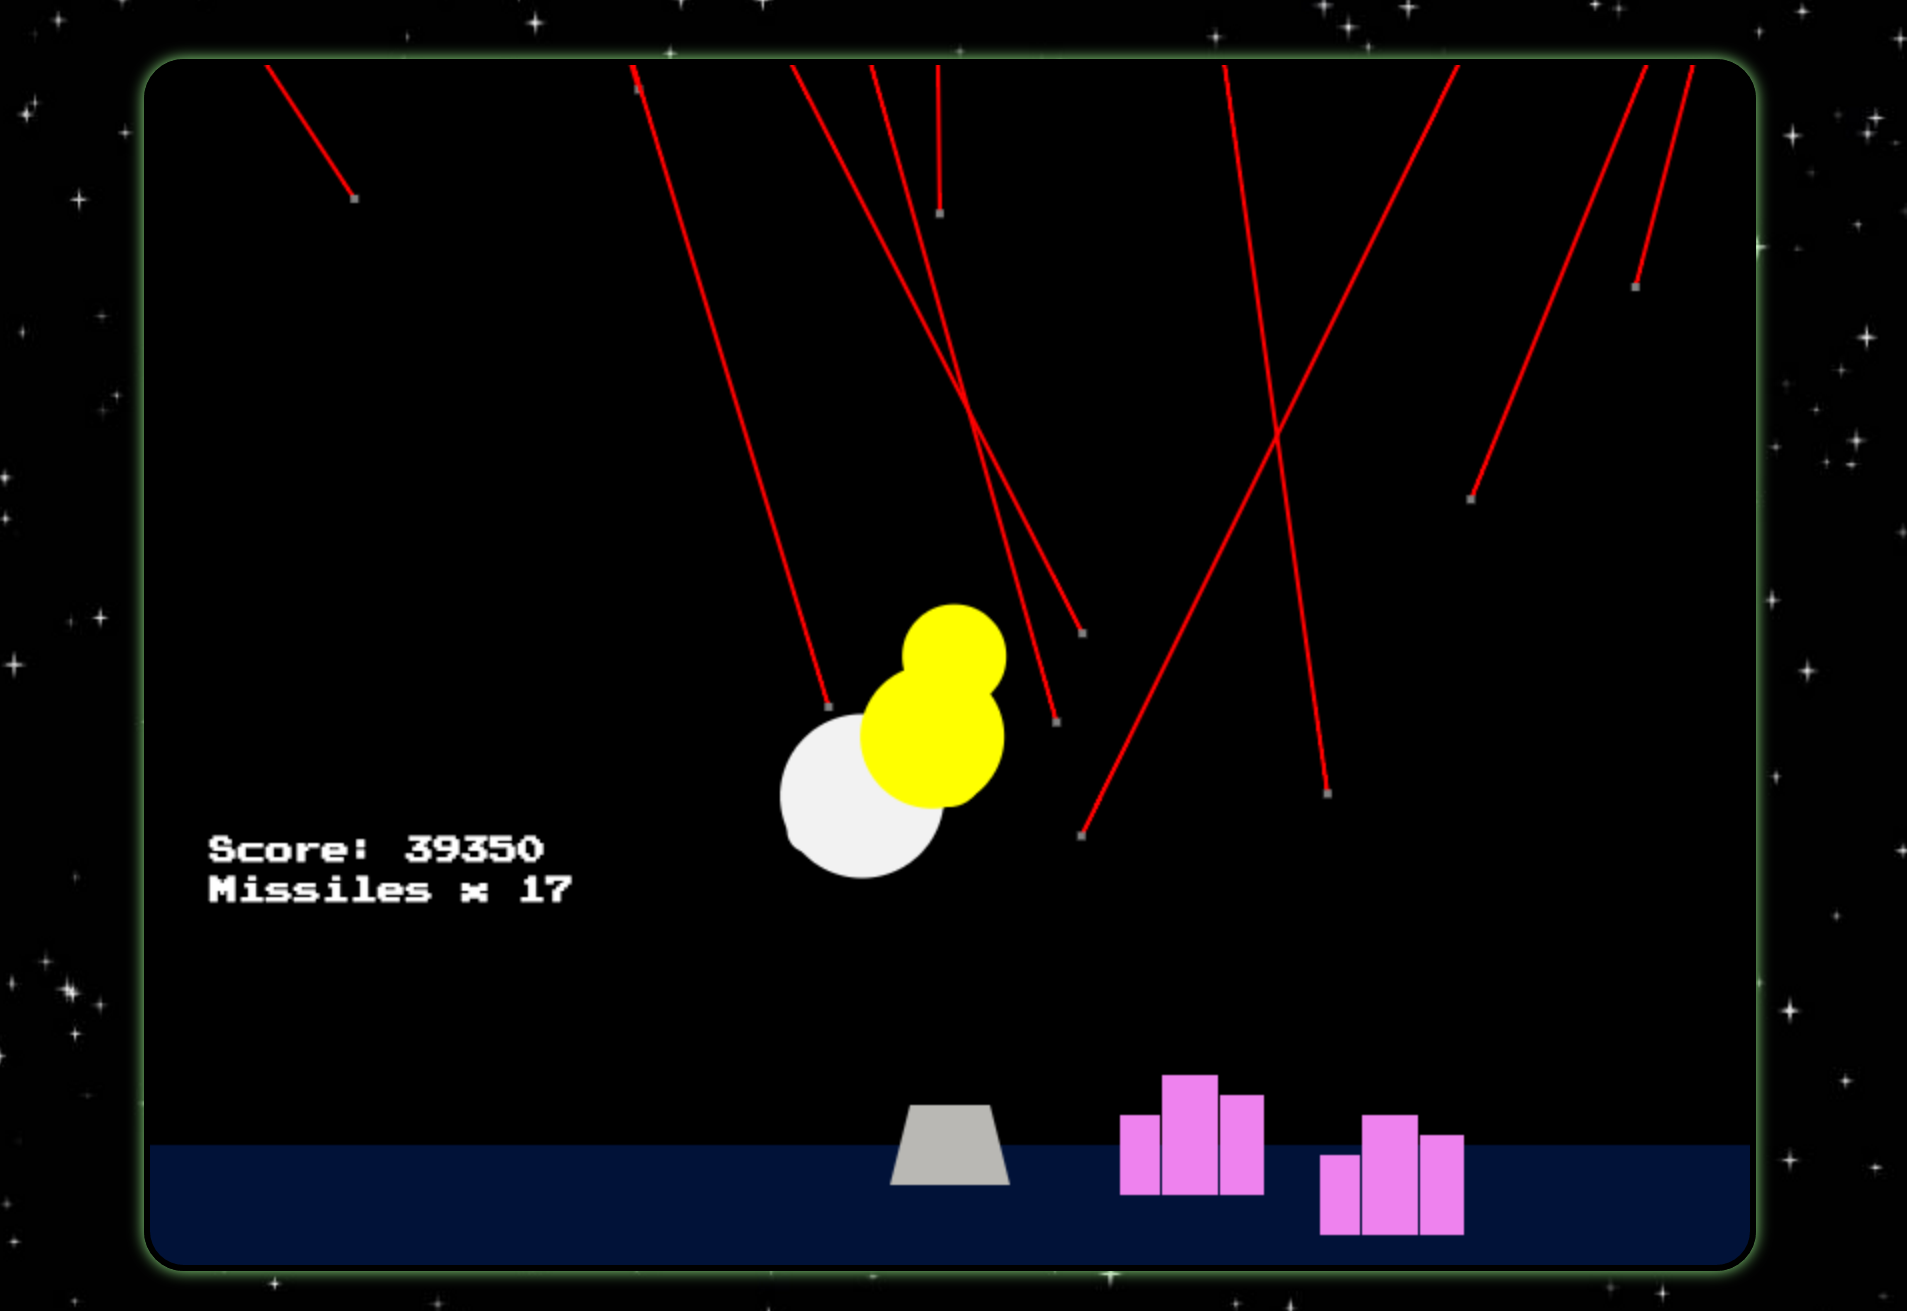
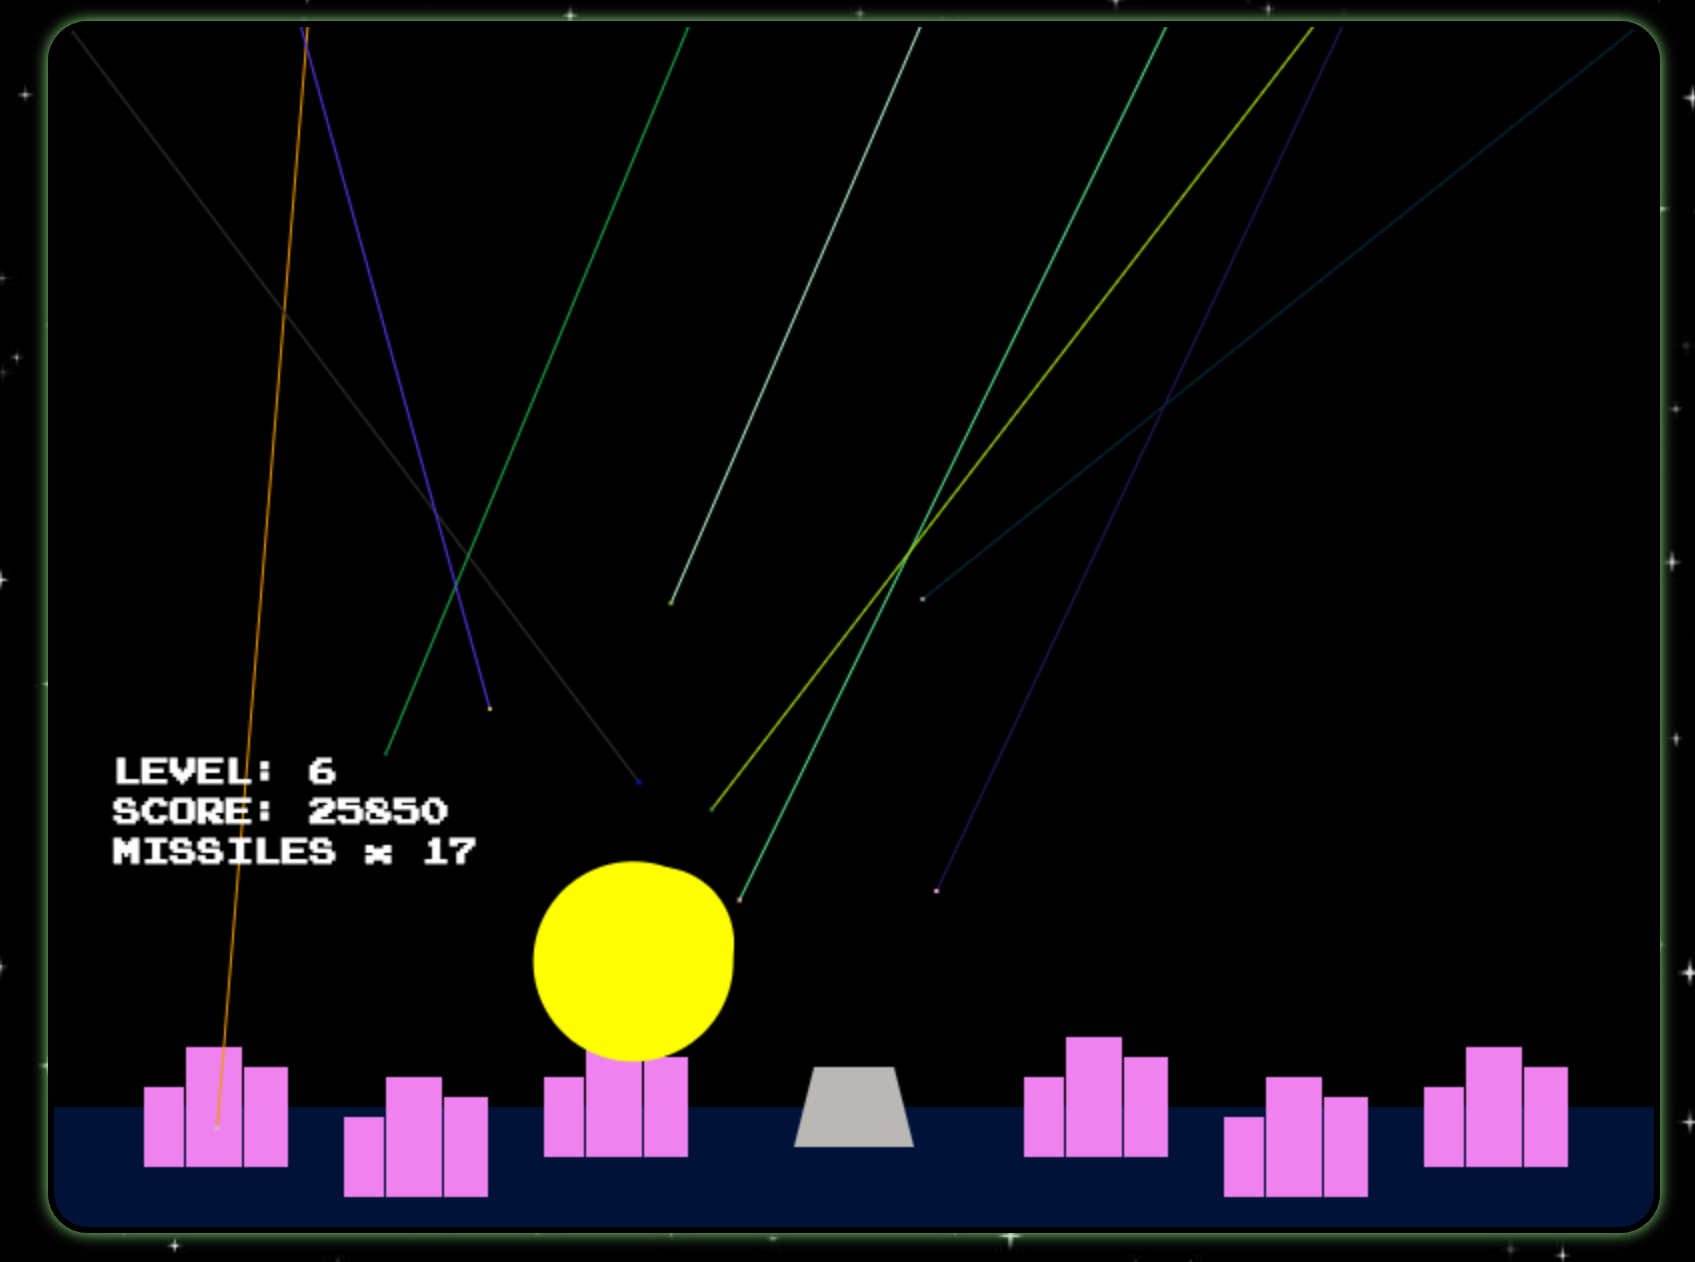
updated with wild rgb colors, updated new photo for README.md

diff --git a/lib/js/components/missile.js b/lib/js/components/missile.js
@@ -11,10 +11,8 @@ class Missile {
     this.currentX = options.startX;
     this.currentY = options.startY;
     this.explodingRadius = 2;
-    this.color = options.color;
-    this.width = 4;
-    this.height = 4;
-    this.trailColor = options.trailColor;
+    this.width = 2;
+    this.height = 2;
     this.status = STATUS.LIVE;
   }
 
@@ -36,14 +34,14 @@ class Missile {
 
   renderLiveMissile(ctx) {
     ctx.strokeStyle = `rgb(${Calc.rand(0, 255)}, ${Calc.rand(0, 255)}, ${Calc.rand(0, 255)})`;
-    ctx.lineWidth = 2;
+    ctx.lineWidth = 1.5;
     ctx.beginPath();
     ctx.moveTo(this.startX, this.startY);
     ctx.lineTo(this.currentX, this.currentY);
     ctx.stroke();
 
     ctx.fillStyle = `rgb(${Calc.rand(0, 255)}, ${Calc.rand(0, 255)}, ${Calc.rand(0, 255)})`;
-    ctx.fillRect(this.currentX - 2, this.currentY - 2, this.width, this.height);
+    ctx.fillRect(this.currentX - 1, this.currentY - 1, this.width, this.height);
   }
 
   renderExplodingMissile(score, enemyMissiles, ctx) {

diff --git a/lib/js/components/player_missile.js b/lib/js/components/player_missile.js
@@ -9,8 +9,6 @@ class PlayerMissile extends Missile {
       startY: turret.y,
       endX: endX,
       endY: endY,
-      trailColor: 'flash',
-      color: 'blue'
     });
     let xDistance = this.endX - this.startX,
         yDistance = this.endY - this.startY,

diff --git a/lib/js/components/enemy_missile.js b/lib/js/components/enemy_missile.js
@@ -14,8 +14,6 @@ class EnemyMissile extends Missile {
       startY: -2,
       endX: target.x,
       endY: target.y,
-      trailColor: 'red',
-      color: 'gray'
     });
 
     let frames = Calc.framesToTarget(lvl);
